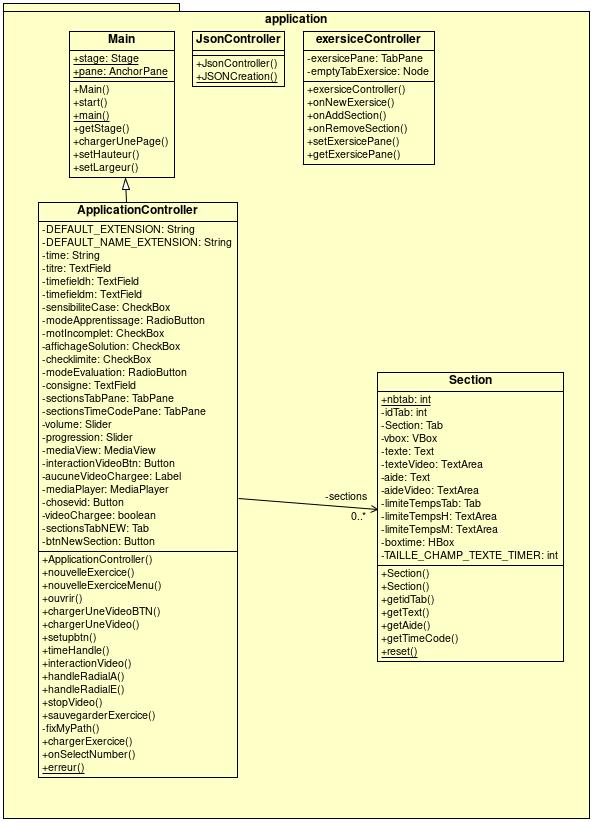
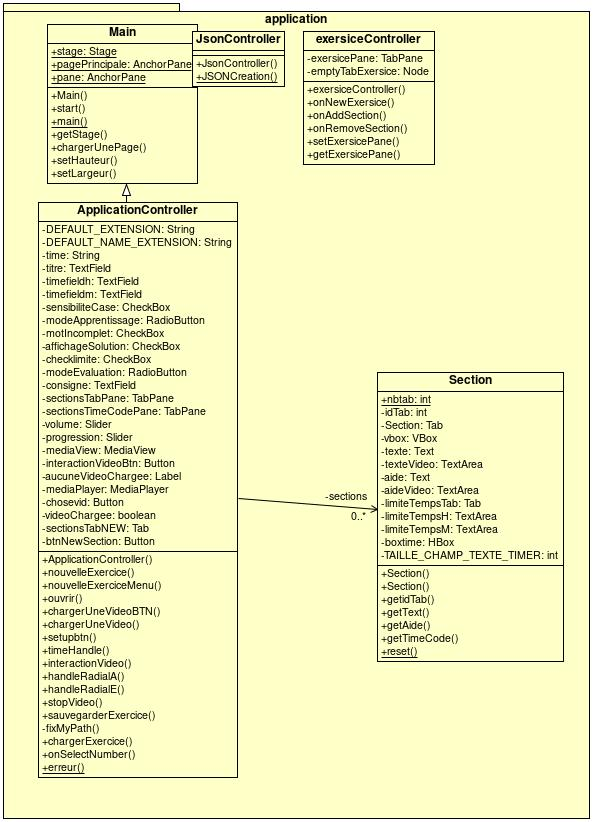
anulation d'erreur stupide

Changed region(s): [[0.0607, 0.0304, 0.3339, 0.2433]]

diff --git a/Resolution - Professeur/src/application/Main.java b/Resolution - Professeur/src/application/Main.java
@@ -13,15 +13,15 @@ import javafx.stage.Stage;
 
 public class Main extends Application {
 	public static Stage stage;
-	//public static AnchorPane pagePrincipale;
+	public static AnchorPane pagePrincipale;
 	public static AnchorPane pane;
 	@Override
 	public void start(Stage primaryStage) {
 		try {
-			//pagePrincipale = FXMLLoader.load(getClass().getResource("MenuPrincipal.fxml"));
-			//Scene scene = new Scene(pagePrincipale, 450, 450);
-			pane = FXMLLoader.load(getClass().getResource("NouvelleExercice.fxml"));
-			Scene scene = new Scene(pane, 910,720);
+			pagePrincipale = FXMLLoader.load(getClass().getResource("MenuPrincipal.fxml"));
+			Scene scene = new Scene(pagePrincipale, 450, 450);
+			//pane = FXMLLoader.load(getClass().getResource("NouvelleExercice.fxml"));
+			//Scene scene = new Scene(pane, 910,720);
 			primaryStage.setTitle("Résolution V1.0 G8 - Professeur");
 			primaryStage.setScene(scene);
 			primaryStage.show();
@@ -43,7 +43,7 @@ public class Main extends Application {
 	
 	public void chargerUnePage(String nomPage) throws IOException {
 		pane = FXMLLoader.load(getClass().getResource(nomPage));
-		//pagePrincipale.getChildren().setAll(pane);
+		pagePrincipale.getChildren().setAll(pane);
 	}
 
 	public void setHauteur(int i) {
